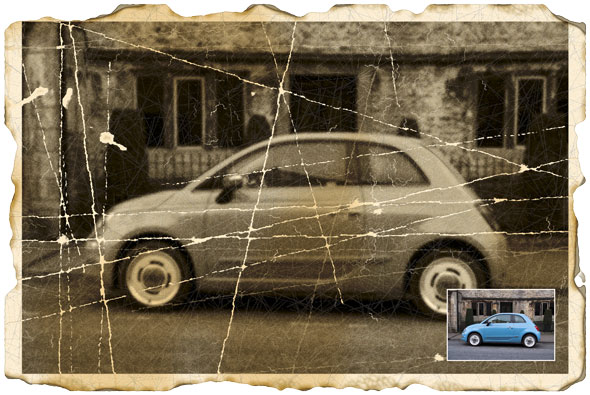
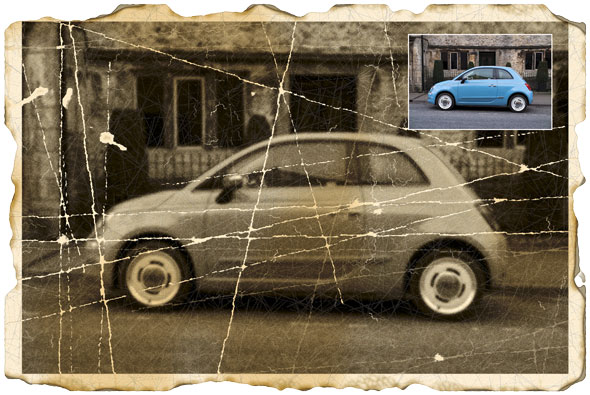
fiat

Changed region(s): [[0.6712, 0.0608, 0.9458, 0.3342], [0.7322, 0.7291, 0.9458, 0.9418]]

diff --git a/oldphoto/index.html b/oldphoto/index.html
@@ -16,7 +16,7 @@
 <img src="https://raw.githubusercontent.com/akidaniel/almacen/gh-pages/oldphoto/images/sport.jpg" alt="Old Photo">
 <img src="https://raw.githubusercontent.com/akidaniel/almacen/gh-pages/wipe_html/images/blank.jpg" alt="blank">
 
-<img src="https://raw.githubusercontent.com/akidaniel/almacen/gh-pages/wipe3_html/images/arrowhead.jpg" alt="Arrowhead">
+<img src="https://raw.githubusercontent.com/akidaniel/almacen/gh-pages/oldphoto/images/fiat.jpg" alt="Car">
 <img src="https://raw.githubusercontent.com/akidaniel/almacen/gh-pages/wipe_html/images/blank.jpg" alt="blank">
 
 <img src="https://raw.githubusercontent.com/akidaniel/almacen/gh-pages/oldphoto/images/random1.jpg" alt="Random Results">
